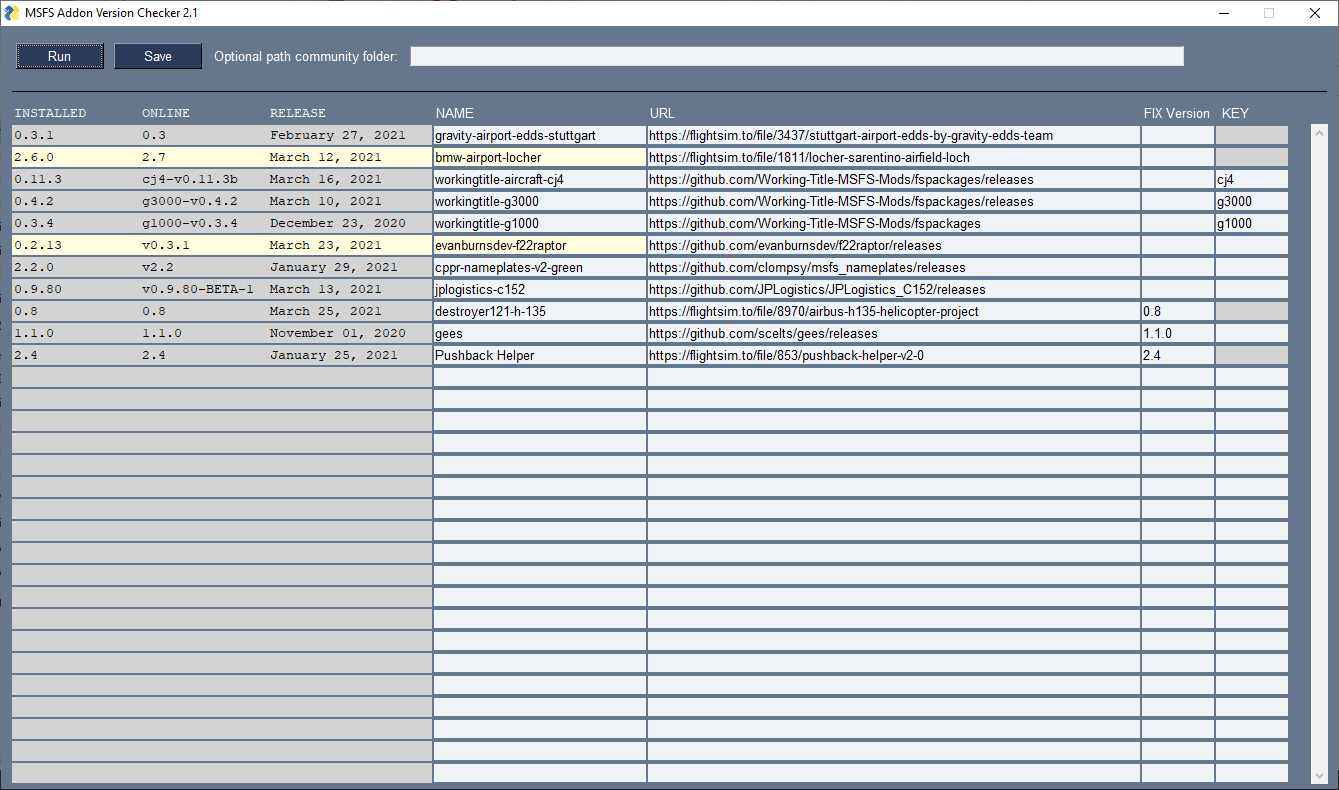
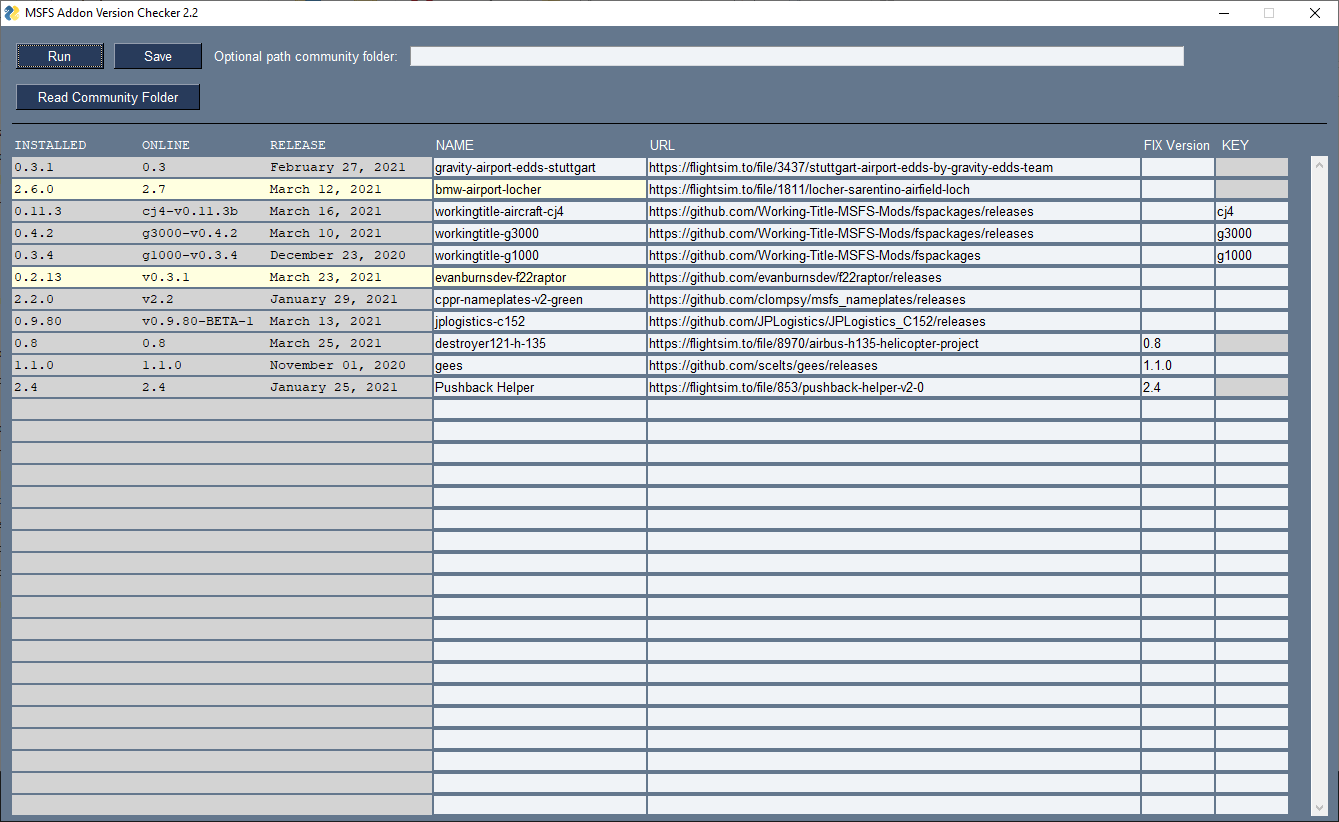
button read community folder

diff --git a/src/checkAddons.py b/src/checkAddons.py
@@ -5,6 +5,7 @@ import asyncio
 import httpx
 import dateutil.parser
 import PySimpleGUI as sg
+from PySimpleGUI.PySimpleGUI import theme_input_background_color
 from xml.dom import minidom
 from bs4 import BeautifulSoup
 
@@ -56,6 +57,13 @@ def disable_input_field(element, value):
     doDisable = "flightsim.to" in value
     element.update(disabled=doDisable)
 
+
+def update_url_background(window, values, index):
+    color = theme_input_background_color()
+    if values[(index, "name")] and not values[(index, "url")]:
+        color = "lightsalmon"
+    window[(index, "url")].update(background_color = color)   
+        
 
 async def check_flightsim(url, onlineVersion, onlineReleaseDate):
     errorText = None
@@ -170,7 +178,23 @@ async def check_all_addons(window, values, communityFolder, rows):
 
 def addon_worker_thread(window, values, communityFolder, rows):
     asyncio.run(check_all_addons(window, values, communityFolder, rows))
-   
+
+
+def read_community_folder(window, values, communityFolder, rows):
+    if communityFolder:
+        list_subfolders = [f.name for f in os.scandir(communityFolder) if f.is_dir()]
+        current_addons = {}
+        last_addon_row = -1
+        for i in range(rows):
+            if values[(i, "name")]:
+                current_addons[values[(i, "name")]] = values[(i, "name")]
+                last_addon_row = i
+        for folder in list_subfolders:
+            if folder not in current_addons and last_addon_row < (rows-1):
+                last_addon_row = last_addon_row + 1
+                window[(last_addon_row, "name")].update(folder)
+                window[(last_addon_row, "url")].update(background_color='lightsalmon')
+
 
 def main():
     # Set execution folder to folder of .py file
@@ -190,13 +214,14 @@ def main():
 
     # Generate UI
     column_layout= [[ sg.Text(size=(52, 1), pad=(1,1), key=(i, "result"), font=("Courier", 10), background_color="lightgrey", text_color="black"),
-                    sg.Input(size=(30, 1), pad=(1,1), key=(i, "name"), border_width=0),
+                    sg.Input(size=(30, 1), pad=(1,1), key=(i, "name"), border_width=0, enable_events=True),
                     sg.Input(size=(70, 1), pad=(1,1), key=(i, "url"), border_width=0, enable_events=True),
                     sg.Input(size=(10, 1), pad=(1,1), key=(i, "version"), border_width=0, tooltip="Set fixed installed version"),
                     sg.Input(size=(10, 1), pad=(1,1), key=(i, "key"), disabled_readonly_background_color = "lightgrey", border_width=0, tooltip="Version filter key for github")] 
                     for i in range(MAX_ROWS)]
 
     layout = [[sg.B("Run", size=(10,1)), sg.B("Save", size=(10,1)), sg.Text("Optional path community folder: "), sg.I(size=(110, 1), pad=(1,15), key="cf") ], 
+            [sg.B("Read Community Folder", size=(22,1))],
             [sg.HorizontalSeparator("Run",pad=(1,10) )],
             [sg.Text(size=(52, 1), pad=(1,1), text="{:<16}{:<16}{:<25}".format("INSTALLED", "ONLINE", "RELEASE"), font=("Courier", 10)),
             sg.Text(size=(26, 1), pad=(1,1), text="NAME"),
@@ -205,22 +230,30 @@ def main():
             sg.Text(size=(9, 1), pad=(1,1), text="KEY",  tooltip="Version filter key for github")],
             [sg.Column(column_layout, size=(1300, 660), pad=(0,0), scrollable=True, vertical_scroll_only = True)]]
 
-    window = sg.Window('MSFS Addon Version Checker 2.1', layout,  return_keyboard_events=False)
+    window = sg.Window('MSFS Addon Version Checker 2.2', layout,  return_keyboard_events=False)
     window.finalize()
     update_from_xml(doc, window)
     event, values = window.read(0)
     for row in range(MAX_ROWS):
         disable_input_field(window[(row, "key")], values[(row, "url")])
+        update_url_background(window, values, row)
 
     while True:  
         event, values = window.read()
         if event in (sg.WIN_CLOSED, 'Exit'):
             break
-        elif type(event) is tuple:
+        elif type(event) is tuple and event[1] == "url":
             disable_input_field(window[(event[0], "key")], values[(event)])
+            update_url_background(window, values, event[0])
+        elif type(event) is tuple and event[1] == "name":
+            update_url_background(window, values, event[0])
         elif event == "Save":
             write_to_xml(values, MAX_ROWS)
+        elif event == "Read Community Folder":
+            read_community_folder(window, values, communityFolder, MAX_ROWS)
         elif event == "Run":
+            for r in range(MAX_ROWS):
+                window[(r, "result")].update("")
             th = threading.Thread(target=addon_worker_thread, args=(window, values, communityFolder, MAX_ROWS))
             th.start()
 

diff --git a/README.md b/README.md
@@ -13,6 +13,8 @@ Supported sources for addons and tools are:
 [Download the latest released version](https://github.com/Koseng/MSFSAddonVersionChecker/releases/latest). Unpack to a folder and execute checkAddons.exe. To Run the version checks press the Run-Button.
 
 ### Configuration
+Press "Read Community Folder"-Button to get the addons of the community folder. Delete examples if not necessary.
+
 For each addon or tool fill out one line in the table. If you run out of empty lines, save, restart and you get more.
 Do not forget to save your configuration with the Save-Button.
 
